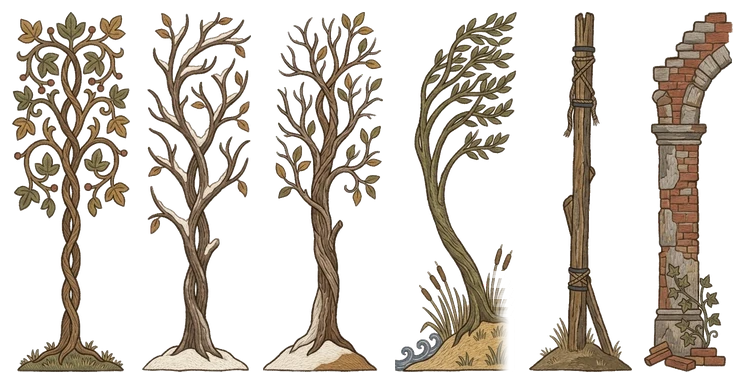
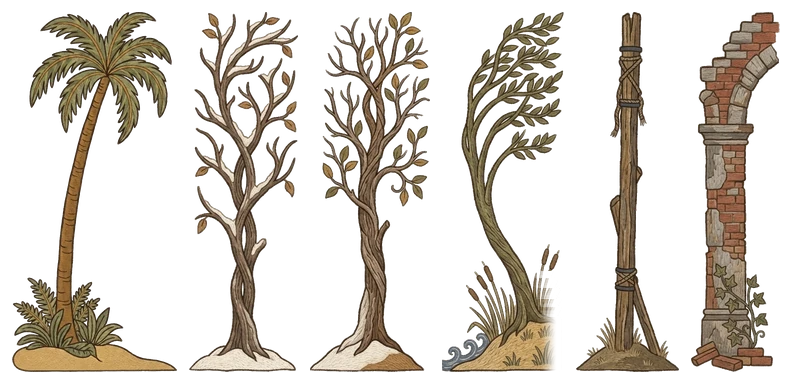
Use matching Bayeux tropical palm shore transition at 1500 boundary

diff --git a/src/tapestryBoundaries.js b/src/tapestryBoundaries.js
@@ -7,29 +7,29 @@
 export const BOUNDARY_DIVIDER_ATLAS = 'images/tapestry/bayeux-boundary-dividers-threads.webp';
 
 // Exact [x, y, width, height] crop boxes inside bayeux-boundary-dividers-threads.webp
-// (745x384 RGBA transparent wool-thread sprite sheet).
+// (792x384 RGBA transparent wool-thread sprite sheet).
 export const DIVIDER_CROPS = {
-  'bayeux-tree': [12, 12, 118, 360],
-  'winter-tree': [142, 12, 109, 360],
-  'winter-to-field': [263, 12, 120, 360],
-  'coastal-shore': [395, 12, 122, 360],
-  'trench-post': [529, 12, 103, 360],
-  'ruined-pier': [644, 12, 89, 360]
+  'palm-shore': [12, 12, 165, 360],
+  'winter-tree': [189, 12, 109, 360],
+  'winter-to-field': [310, 12, 120, 360],
+  'coastal-shore': [442, 12, 122, 360],
+  'trench-post': [576, 12, 103, 360],
+  'ruined-pier': [691, 12, 89, 360]
 };
 
 // Per-join visual tuning across all 11 panel-to-panel joins of storyPanels.
 // Fractions are relative to artHeight so geometry scales cleanly at any height.
 export const PANEL_BOUNDARIES = {
   'opening-0->early-1': {
-    motif: 'bayeux-tree',
+    motif: 'palm-shore',
     label: '1500 · Columbian Exchange → Renaissance Print',
-    leftFeather: 0.14,
-    rightFeather: 0.05,
-    heightScale: 0.93,
-    centerBias: 0.06,
+    leftFeather: 0.09,
+    rightFeather: 0.03,
+    heightScale: 0.85,
+    centerBias: 0.02,
     flip: false,
-    leftGround: 0.985,
-    rightGround: 0.975,
+    leftGround: 0.972,
+    rightGround: 0.966,
     groundTone: 'earth'
   },
   'early-1->early-2': {
@@ -158,7 +158,7 @@ export const PANEL_BOUNDARIES = {
 };
 
 const DEFAULT_BOUNDARY = {
-  motif: 'bayeux-tree',
+  motif: 'winter-tree',
   label: 'Scene boundary',
   leftFeather: 0.11,
   rightFeather: 0.11,
